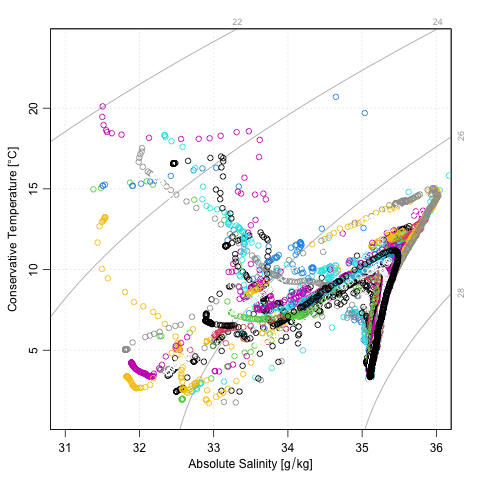
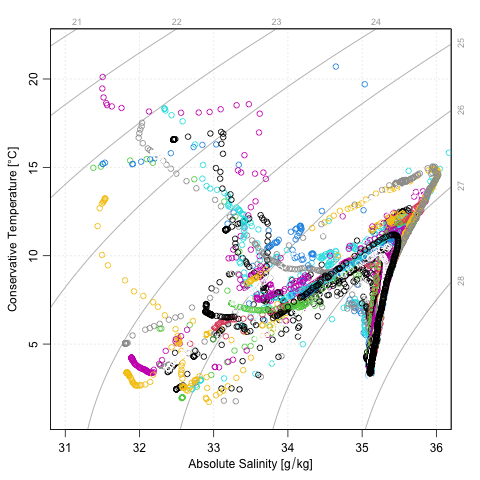
readme

diff --git a/README.md b/README.md
@@ -21,7 +21,7 @@ argosList <- argos[["profile"]]
 for (i in seq_len(length(argosList))) {
     a <- argosList[[i]]
     if (i == 1) {
-        plotTS(a, Slim=c(31, 36), Tlim=c(1,24), eos="gsw")
+        plotTS(a, Slim=c(31, 36), Tlim=c(1,22), eos="gsw")
     } else {
         points(a[["SA"]], a[["CT"]], col=i%%10)
     }
